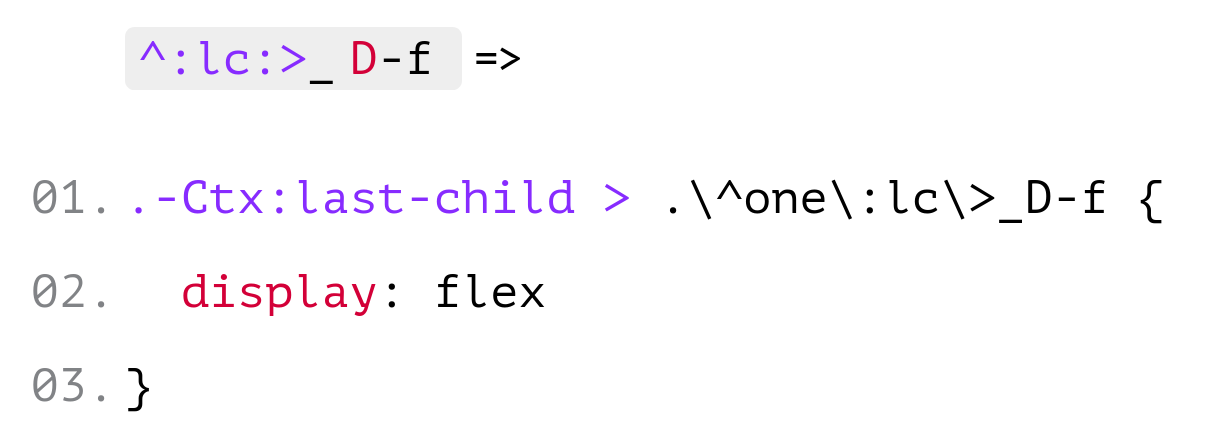
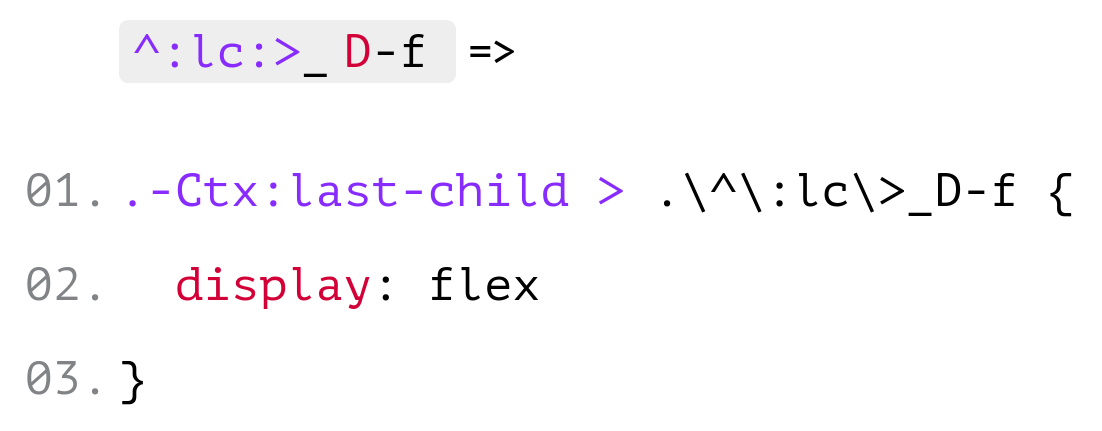
Fix the slide in the mlut presentation

diff --git a/t/mlut/index.html b/t/mlut/index.html
@@ -1239,7 +1239,7 @@
 				<code><span  style="color:var(--token-selector)">^:lc:></span><span style="color:var(--token-sass-comment)">_D-f</span></code> =>
 			</p>
 			<pre>
-				<code><span style="color:var(--token-selector)">.-Ctx:last-child ></span> .\^one\:lc\>_D-f {</code>
+				<code><span style="color:var(--token-selector)">.-Ctx:last-child ></span> .\^\:lc\>_D-f {</code>
 				<code> </code>
 				<code>}</code>
 			</pre>
@@ -1250,7 +1250,7 @@
 				<code><span  style="color:var(--token-selector)">^:lc:></span>_<mark><span style="color:var(--token-property)">D</span>-f</mark></code> =>
 			</p>
 			<pre>
-				<code><span style="color:var(--token-selector)">.-Ctx:last-child ></span> .\^one\:lc\>_D-f {</code>
+				<code><span style="color:var(--token-selector)">.-Ctx:last-child ></span> .\^\:lc\>_D-f {</code>
 				<code>  <mark><span style="color:var(--token-property)">display</span>: flex</mark></code>
 				<code>}</code>
 			</pre>
